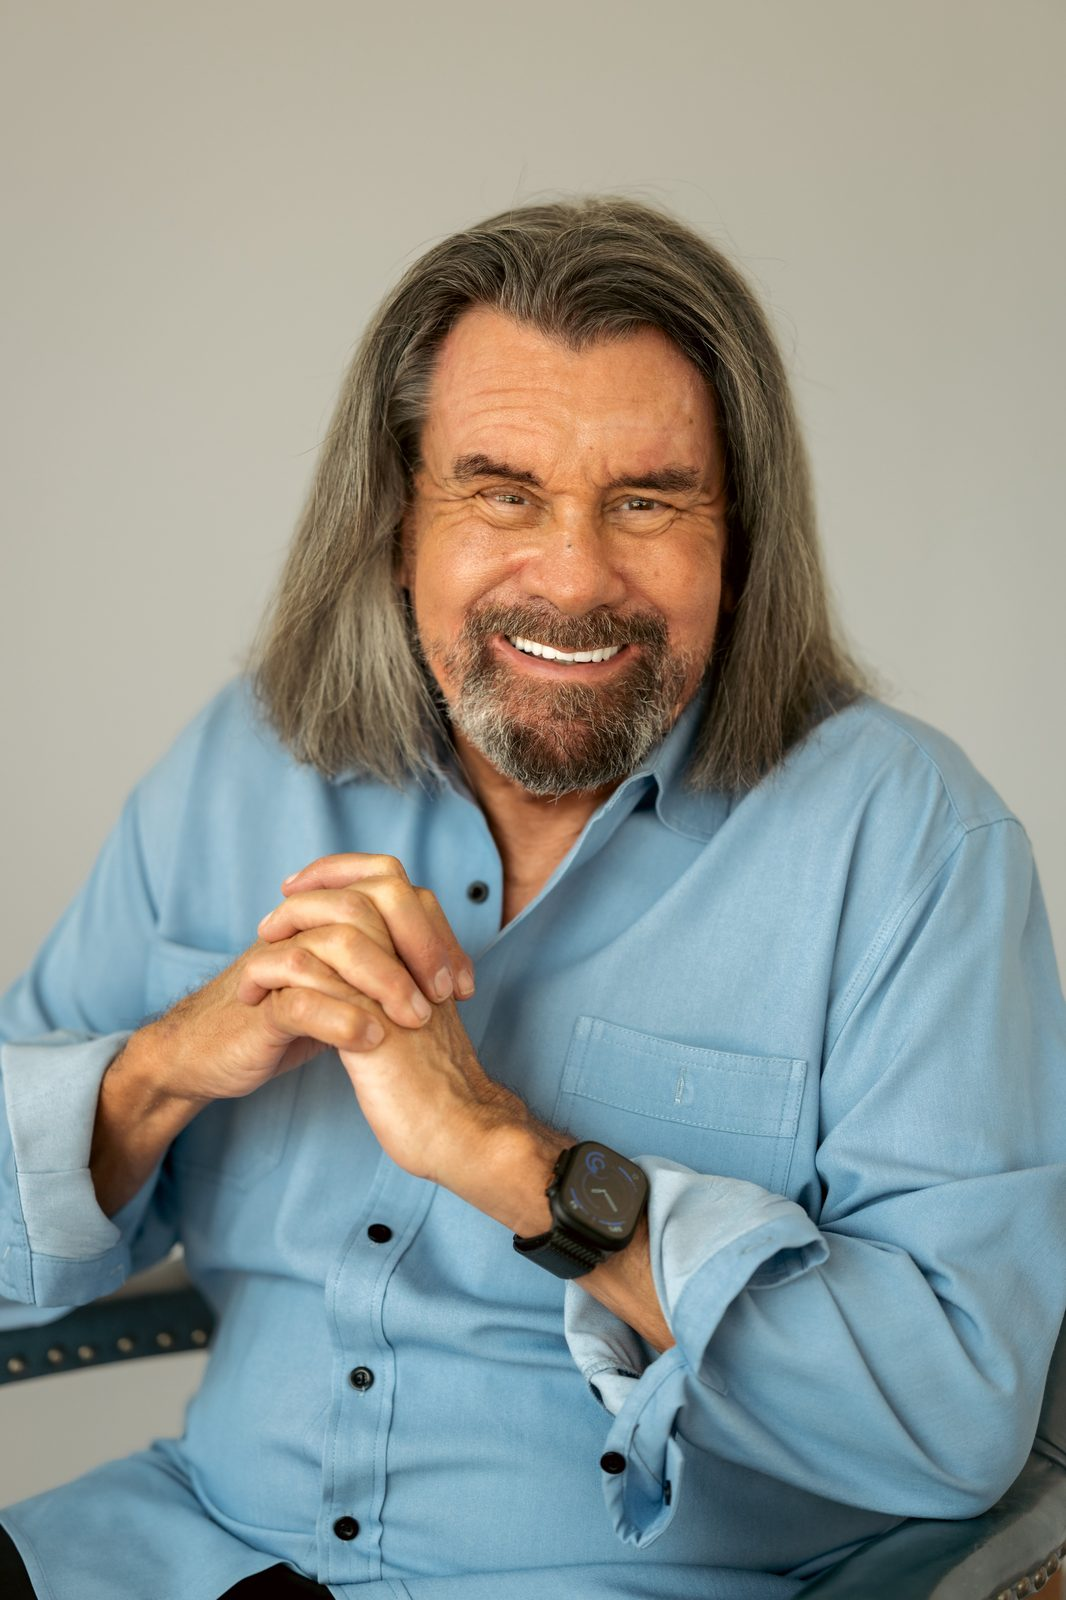
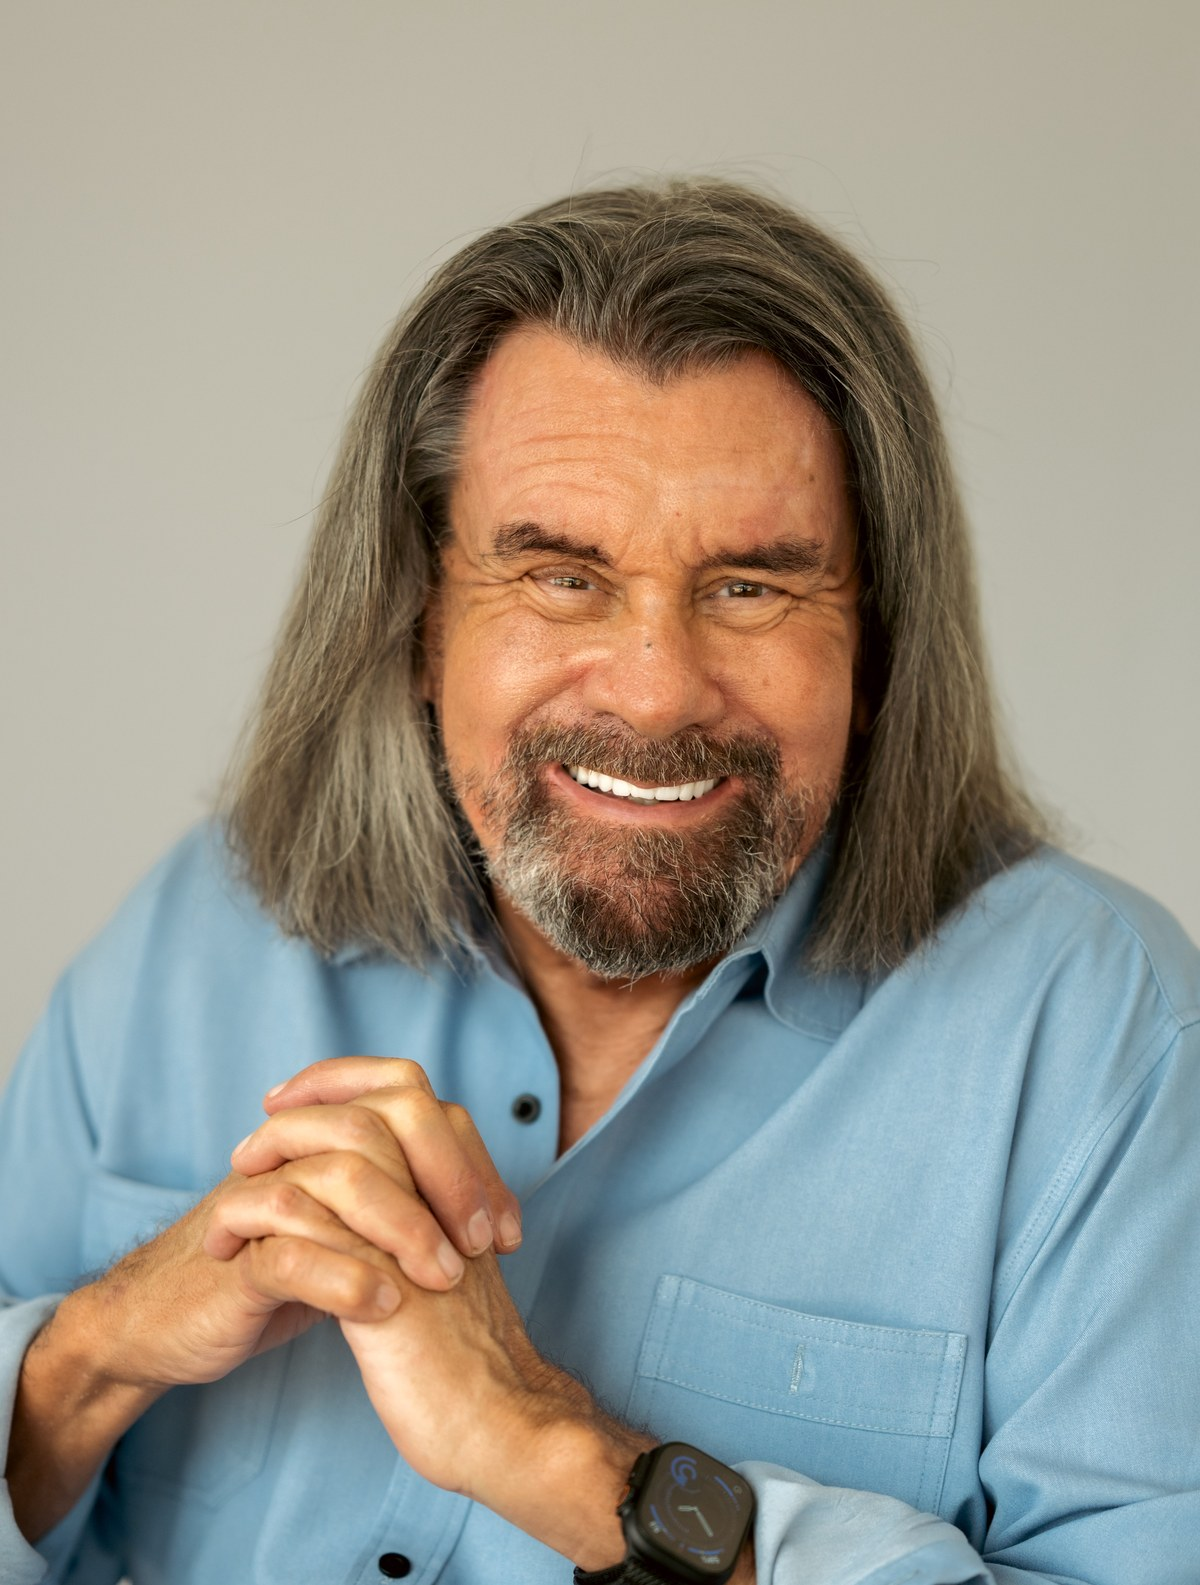
Distribute five distinct portraits across practice pages

diff --git a/about.html b/about.html
@@ -349,7 +349,7 @@
     <p class="lede">A 30+ year Texas attorney whose practice moves across commercial finance, federal tax credit finance, tax resolution, and estate planning — and who builds the infrastructure his firm runs on himself.</p>
   </div>
   <div class="portrait-frame" style="padding:0;border:none;">
-    <img src="/norris-portrait-advisor.jpg" alt="Norris Lozano, founding attorney of Lozano Legal Advisors PLLC" style="display:block;width:100%;height:100%;object-fit:cover;" />
+    <img src="/norris-portrait-warm.jpg" alt="Norris Lozano, founding attorney of Lozano Legal Advisors PLLC" style="display:block;width:100%;height:100%;object-fit:cover;" />
   </div>
 </section>
 

diff --git a/corporate-partnership.html b/corporate-partnership.html
@@ -311,7 +311,7 @@
 </section>
 
 <section style="max-width:420px;margin:0 auto;padding:48px 40px 0;">
-  <img src="/norris-portrait-editorial.jpg" alt="Norris Lozano, founding attorney" style="display:block;width:100%;height:auto;" loading="lazy" />
+  <img src="/norris-portrait-hero.jpg" alt="Norris Lozano, founding attorney" style="display:block;width:100%;height:auto;" loading="lazy" />
 </section>
 
 <section class="content">

diff --git a/estate-planning.html b/estate-planning.html
@@ -311,7 +311,7 @@
 </section>
 
 <section style="max-width:420px;margin:0 auto;padding:48px 40px 0;">
-  <img src="/norris-portrait-advisor.jpg" alt="Norris Lozano, founding attorney" style="display:block;width:100%;height:auto;" loading="lazy" />
+  <img src="/norris-portrait-softsmile.jpg" alt="Norris Lozano, founding attorney" style="display:block;width:100%;height:auto;" loading="lazy" />
 </section>
 
 <section class="content">

diff --git a/tax-resolution.html b/tax-resolution.html
@@ -355,7 +355,7 @@
 </section>
 
 <section style="max-width:420px;margin:0 auto;padding:48px 40px 0;">
-  <img src="/norris-portrait-hero.jpg" alt="Norris Lozano, founding attorney" style="display:block;width:100%;height:auto;" loading="lazy" />
+  <img src="/norris-portrait-warm.jpg" alt="Norris Lozano, founding attorney" style="display:block;width:100%;height:auto;" loading="lazy" />
 </section>
 
 <section class="content">